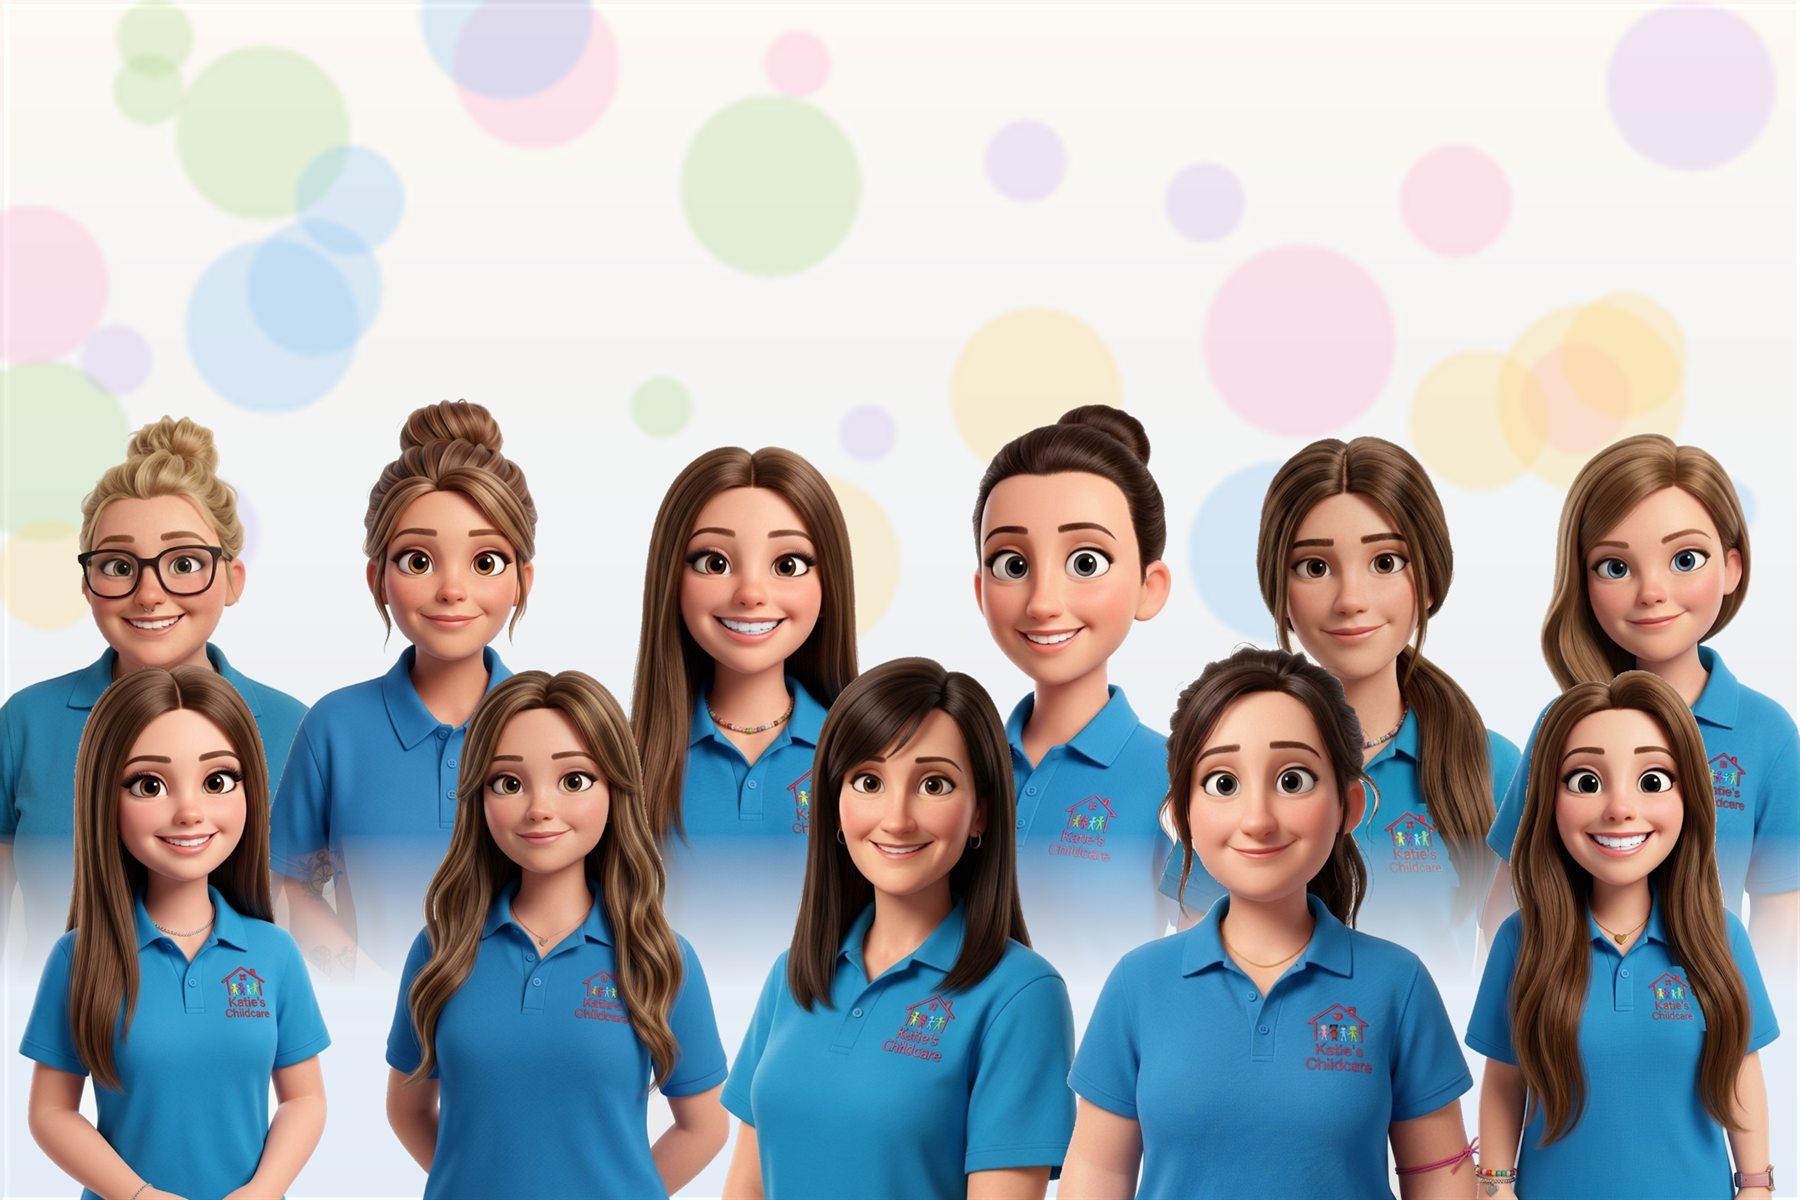
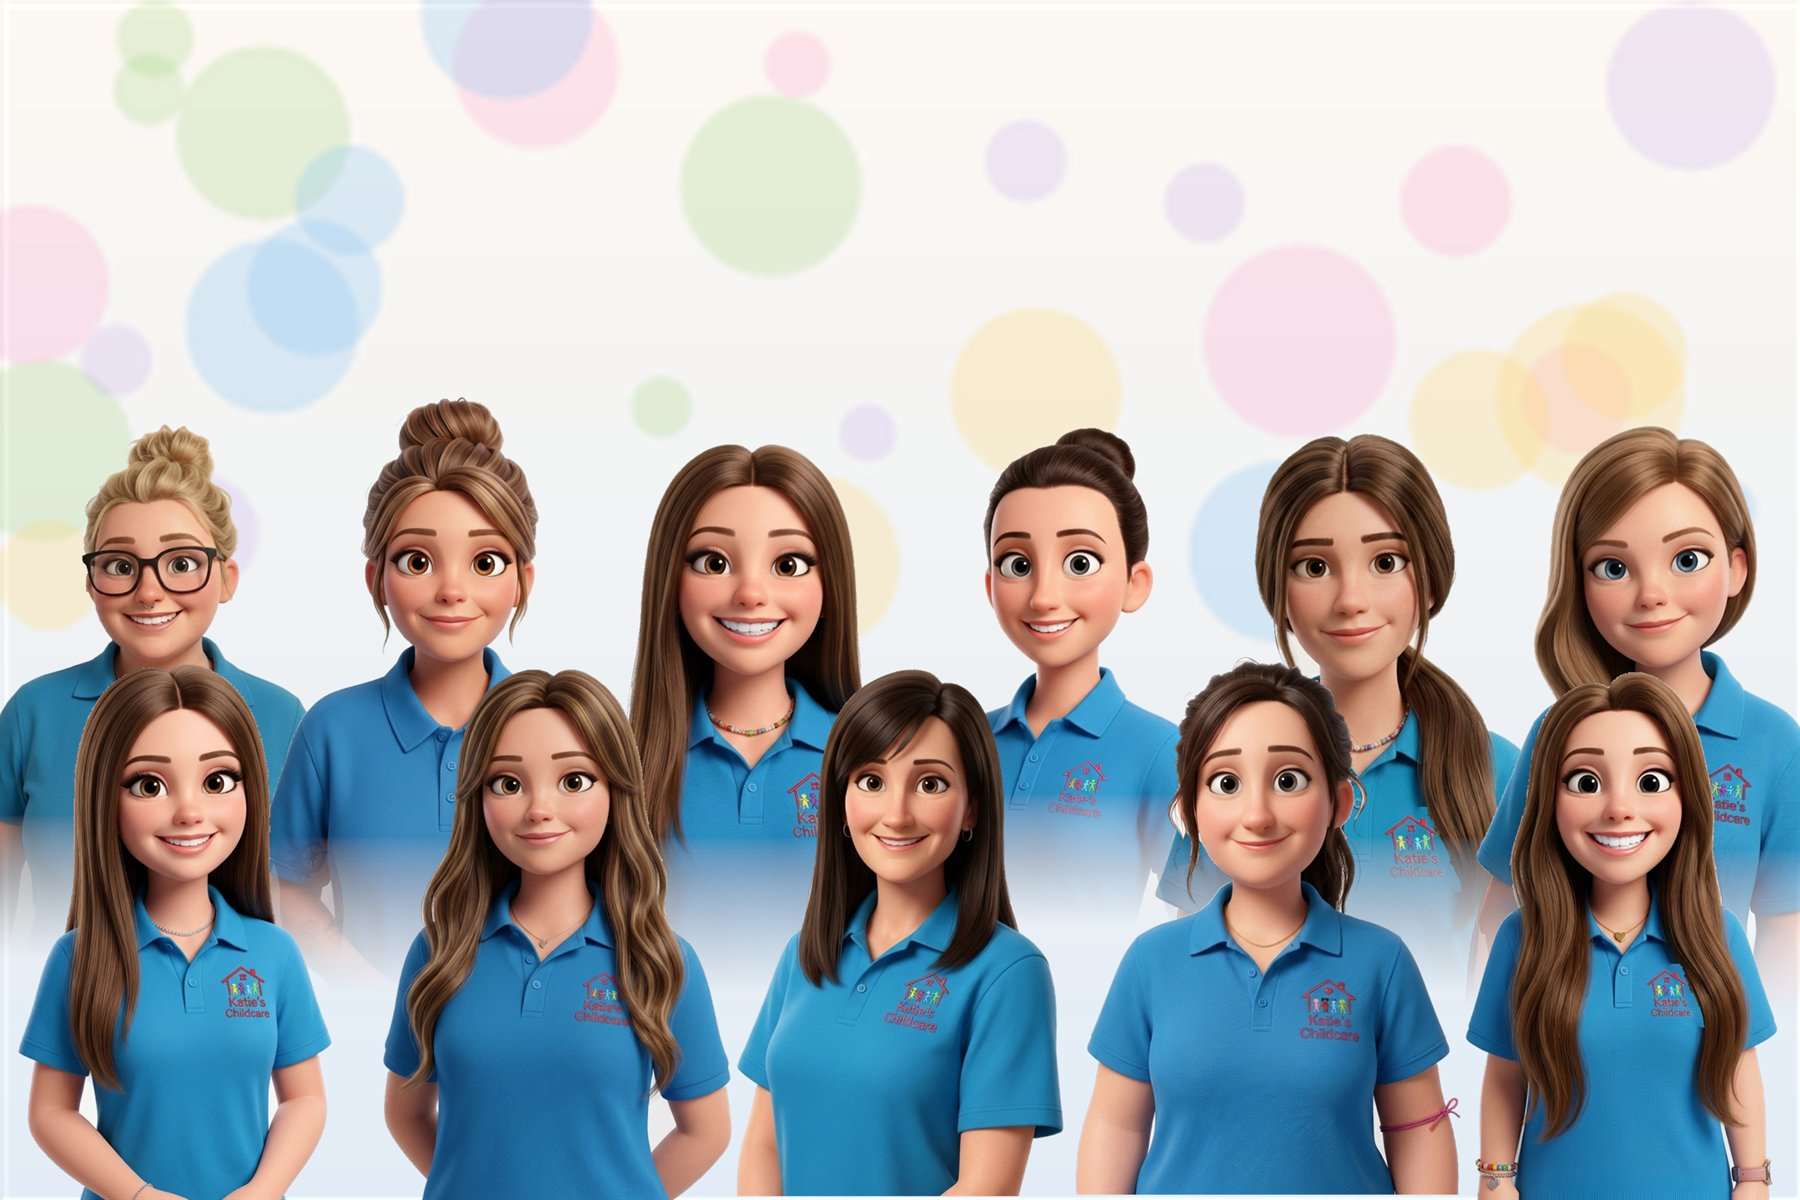
Group picture: equal face sizes in both rows; gallery leads with Our garden

diff --git a/index.html b/index.html
@@ -15,7 +15,7 @@
   <meta property="og:title" content="Katie's Childcare | Nursery in Gedney Drove End, Spalding">
   <meta property="og:description" content="A warm, family-run nursery in Gedney Drove End for children aged 0 to 4. Come and see us in action.">
   <meta property="og:url" content="https://www.katieschildcare.co.uk/">
-  <meta property="og:image" content="https://www.katieschildcare.co.uk/assets/team-group.jpg?v=202611271411">
+  <meta property="og:image" content="https://www.katieschildcare.co.uk/assets/team-group.jpg?v=202611271426">
   <meta property="og:image:width" content="1800">
   <meta property="og:image:height" content="1200">
   <meta property="og:image:alt" content="Cartoon illustration of the Katie's Childcare team">
@@ -84,11 +84,11 @@
     ]
   }
   </script>
-  <link rel="icon" href="assets/logo-transparent.png?v=202611271411">
+  <link rel="icon" href="assets/logo-transparent.png?v=202611271426">
   <link rel="preconnect" href="https://fonts.googleapis.com">
   <link rel="preconnect" href="https://fonts.gstatic.com" crossorigin>
   <link href="https://fonts.googleapis.com/css2?family=DM+Mono:wght@400;500&family=Fredoka:wght@500;600;700&family=Instrument+Serif:ital@1&family=Nunito:wght@400;600;700;800&display=swap" rel="stylesheet">
-  <link rel="stylesheet" href="styles.css?v=202611271411">
+  <link rel="stylesheet" href="styles.css?v=202611271426">
 </head>
 <body>
   <a class="skip-link" href="#main">Skip to content</a>
@@ -101,7 +101,7 @@
   <header class="site-header" id="top">
     <div class="container nav">
       <a class="brand" href="#top" aria-label="Katie's Childcare, back to top">
-        <img src="assets/logo-transparent.png?v=202611271411" alt="Katie's Childcare" width="640" height="241">
+        <img src="assets/logo-transparent.png?v=202611271426" alt="Katie's Childcare" width="640" height="241">
       </a>
       <button class="nav-toggle" aria-expanded="false" aria-controls="nav-menu" aria-label="Open menu">
         <span></span><span></span><span></span>
@@ -140,7 +140,7 @@
             <p class="bubble-script">Come and see us in action.</p>
           </div>
           <div class="mascot">
-            <img src="assets/team/katie.jpg?v=202611271411" alt="Cartoon portrait of Katie smiling in a blue Katie's Childcare polo shirt" width="640" height="854">
+            <img src="assets/team/katie.jpg?v=202611271426" alt="Cartoon portrait of Katie smiling in a blue Katie's Childcare polo shirt" width="640" height="854">
           </div>
           <a class="btn btn-primary btn-sm" href="#day">See our day <svg aria-hidden="true" viewBox="0 0 24 24"><path d="M5 12h14M13 6l6 6-6 6"/></svg></a>
         </div>
@@ -203,7 +203,7 @@
               <p class="room-kind">Baby room</p>
               <h3>Tiny Treasures</h3>
               <p>A calm, cosy space for our youngest children, full of cuddles, songs and gentle play. Routines follow your baby's own feeding and sleep times.</p>
-              <p class="room-lead"><span class="avatar"><img src="assets/team/emily.jpg?v=202611271411" alt="" width="640" height="854" loading="lazy"></span><span>Room leader<strong>Emily</strong></span></p>
+              <p class="room-lead"><span class="avatar"><img src="assets/team/emily.jpg?v=202611271426" alt="" width="640" height="854" loading="lazy"></span><span>Room leader<strong>Emily</strong></span></p>
             </div>
           </article>
           <article class="room reveal" style="--c:var(--orange); --soft:var(--orange-soft); --d:.06s">
@@ -212,7 +212,7 @@
               <p class="room-kind">Toddler room</p>
               <h3>Little Gems</h3>
               <p>Busy little explorers learn through messy play, music and making new friends, with plenty of help along the way with talking, sharing and growing in confidence.</p>
-              <p class="room-lead"><span class="avatar"><img src="assets/team/chloe-day.jpg?v=202611271411" alt="" width="640" height="854" loading="lazy"></span><span>Room leader<strong>Chloe</strong></span></p>
+              <p class="room-lead"><span class="avatar"><img src="assets/team/chloe-day.jpg?v=202611271426" alt="" width="640" height="854" loading="lazy"></span><span>Room leader<strong>Chloe</strong></span></p>
             </div>
           </article>
           <article class="room reveal" style="--c:var(--blue); --soft:var(--blue-soft); --d:.12s">
@@ -221,7 +221,7 @@
               <p class="room-kind">Pre-school room</p>
               <h3>Shining Stars</h3>
               <p>Getting ready for big school with early letters and numbers, growing independence and lots of play-based learning.</p>
-              <p class="room-lead"><span class="avatar"><img src="assets/team/gemma.jpg?v=202611271411" alt="" width="640" height="854" loading="lazy"></span><span>Room leader<strong>Gemma</strong></span></p>
+              <p class="room-lead"><span class="avatar"><img src="assets/team/gemma.jpg?v=202611271426" alt="" width="640" height="854" loading="lazy"></span><span>Room leader<strong>Gemma</strong></span></p>
             </div>
           </article>
         </div>
@@ -257,7 +257,7 @@
         </div>
 
         <figure class="team-hero reveal">
-          <img src="assets/team-group.jpg?v=202611271411" alt="Cartoon illustration of the whole Katie's Childcare team standing together in matching blue polo shirts" width="1800" height="1200" loading="lazy">
+          <img src="assets/team-group.jpg?v=202611271426" alt="Cartoon illustration of the whole Katie's Childcare team standing together in matching blue polo shirts" width="1800" height="1200" loading="lazy">
         </figure>
 
         <ul class="team-grid" id="team-grid"></ul>
@@ -283,11 +283,11 @@
             <p class="section-intro">Short video tours of the nursery. Press play to have a look around.</p>
           </div>
           <figure class="video-card reveal" style="--soft:var(--pink-soft)">
-            <video controls playsinline preload="metadata" width="360" height="640" src="assets/gallery/video-1.mp4?v=202611271411#t=0.5"></video>
+            <video controls playsinline preload="metadata" width="360" height="640" src="assets/gallery/video-1.mp4?v=202611271426#t=0.5"></video>
             <figcaption>Nursery tour · 3 mins</figcaption>
           </figure>
           <figure class="video-card reveal" style="--soft:var(--blue-soft); --d:.06s">
-            <video controls playsinline preload="metadata" width="360" height="640" src="assets/gallery/video-2.mp4?v=202611271411#t=0.5"></video>
+            <video controls playsinline preload="metadata" width="360" height="640" src="assets/gallery/video-2.mp4?v=202611271426#t=0.5"></video>
             <figcaption>Inside and out · 3 mins</figcaption>
           </figure>
         </div>
@@ -483,7 +483,7 @@
 
   <footer class="site-footer">
     <div class="container footer-inner">
-      <img src="assets/logo-transparent.png?v=202611271411" alt="Katie's Childcare" width="640" height="241" loading="lazy">
+      <img src="assets/logo-transparent.png?v=202611271426" alt="Katie's Childcare" width="640" height="241" loading="lazy">
       <nav aria-label="Footer">
         <a href="#about">About</a><a href="#rooms">Rooms</a><a href="#team">Team</a><a href="#gallery">Gallery</a><a href="#fees">Fees</a><a href="#faqs">FAQs</a><a href="#contact">Contact</a>
       </nav>
@@ -495,6 +495,6 @@
     </div>
   </footer>
 
-  <script src="script.js?v=202611271411"></script>
+  <script src="script.js?v=202611271426"></script>
 </body>
 </html>

diff --git a/script.js b/script.js
@@ -1,5 +1,5 @@
 // Bumped by tools/bump-version.ps1 on every update so browsers fetch fresh pictures.
-const ASSET_VERSION = "202611271411";
+const ASSET_VERSION = "202611271426";
 const v = (path) => `${path}?v=${ASSET_VERSION}`;
 
 // The contact form opens the visitor's email app with their message addressed here.
@@ -31,8 +31,8 @@ const GALLERY_AREAS = [
   { id: "sensory", label: "Sensory & soft play" },
 ];
 const GALLERY = [
-  { area: "sensory", src: "assets/gallery/sensory-attic.jpg",       caption: "Sensory and movement attic", alt: "Attic playroom with a small trampoline, spinning seats, a rocker, a light box and a hanging sensory swing" },
   { area: "outside", src: "assets/gallery/out-garden.jpg",          caption: "Our garden", alt: "Wide view of the nursery garden with artificial grass, a climbing frame, slides and ride-on toys in front of the barn" },
+  { area: "sensory", src: "assets/gallery/sensory-attic.jpg",       caption: "Sensory and movement attic", alt: "Attic playroom with a small trampoline, spinning seats, a rocker, a light box and a hanging sensory swing" },
   { area: "baby",    src: "assets/gallery/baby-den.jpg",            caption: "Cosy den", alt: "Soft den in the baby room with a grey canopy, cushions, a rug and a bookshelf" },
   { area: "big",     src: "assets/gallery/big-home-corner.jpg",     caption: "Home corner", alt: "Play kitchen with a toy oven, microwave, telephone and a table set with play food" },
   { area: "outside", src: "assets/gallery/out-gazebo.jpg",          caption: "The gazebo", alt: "Large wooden gazebo with a slate roof and picket fence beside the garden" },
